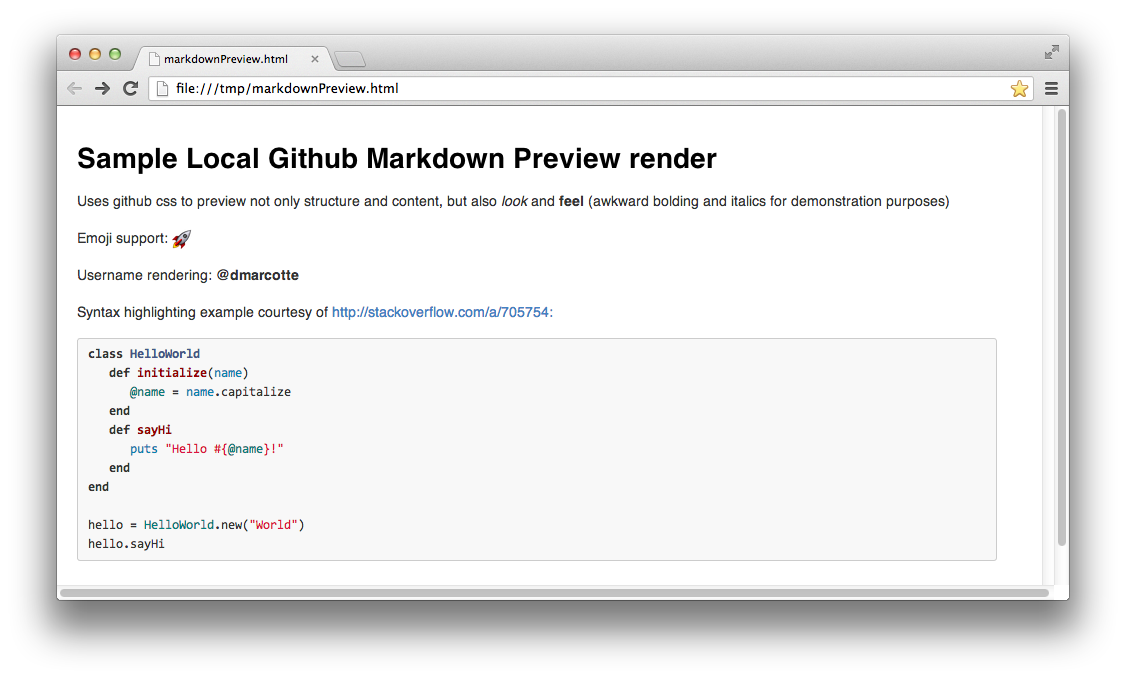
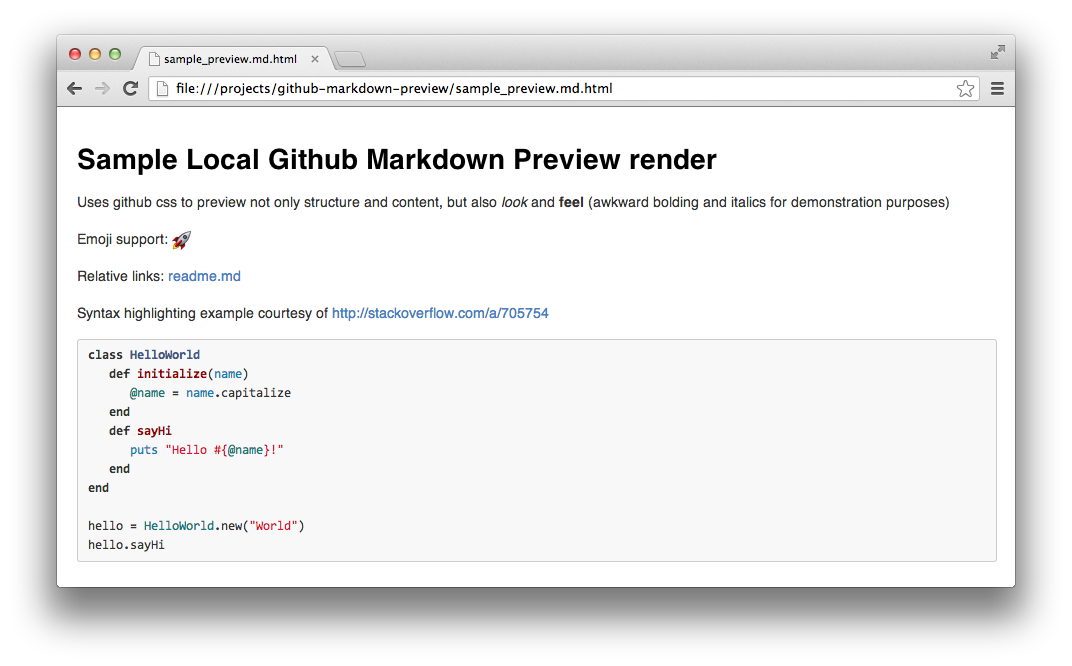
Update sample_preview and screenshot to reflect v1.1 changes

Changed region(s): [[0.0308, 0.0601, 0.9543, 0.9009], [0.9235, 0.0601, 0.9543, 0.0901]]

diff --git a/sample_preview.md b/sample_preview.md
@@ -4,9 +4,9 @@ Uses github css to preview not only structure and content, but also _look_ and *
 
 Emoji support: :rocket:
 
-Username rendering: @dmarcotte
+Relative links: [readme.md](readme.md)
 
-Syntax highlighting example courtesy of http://stackoverflow.com/a/705754:
+Syntax highlighting example courtesy of http://stackoverflow.com/a/705754
 ```ruby
 class HelloWorld
    def initialize(name)
